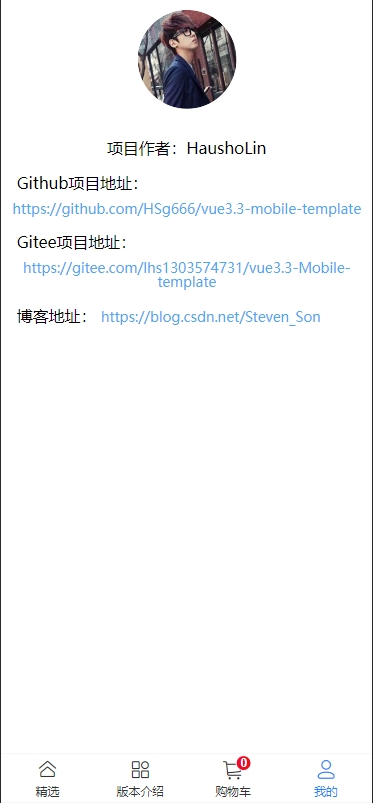
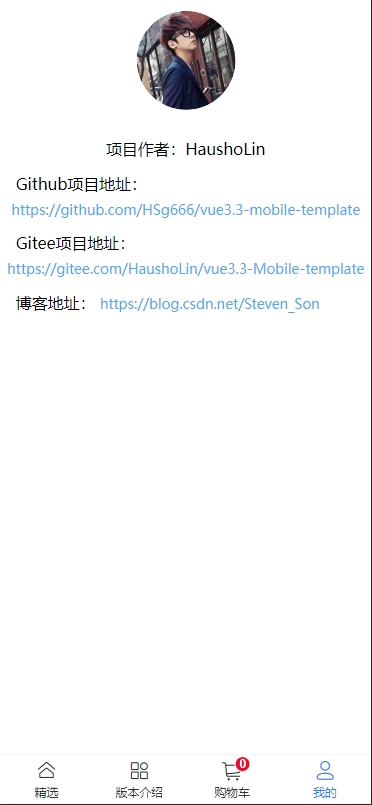
docs:完善文档

diff --git a/src/views/mycenter/index.vue b/src/views/mycenter/index.vue
@@ -19,7 +19,7 @@ onMounted(() => {})
 
 		<div class="project">Gitee项目地址：</div>
 		<div class="item url">
-			<a href="https://gitee.com/lhs1303574731/vue3.3-Mobile-template">https://gitee.com/lhs1303574731/vue3.3-Mobile-template</a>
+			<a href="https://gitee.com/HaushoLin/vue3.3-Mobile-template">https://gitee.com/HaushoLin/vue3.3-Mobile-template</a>
 		</div>
 		<div class="project">
 			博客地址：

diff --git a/README.md b/README.md
@@ -11,11 +11,12 @@
 代码管理工具推荐用：sourceTree
 
 ### 项目预览
-![](https://github.com/HSg666/learn-vite/blob/main/src/assets/images/%E9%A6%96%E9%A1%B5.png)
+![](https://img-blog.csdnimg.cn/direct/5d6fdf21951c40efa2ddd1b5abe89b1d.png)
 
-![](https://github.com/HSg666/learn-vite/blob/main/src/assets/images/%E7%89%88%E6%9C%AC%E4%BB%8B%E7%BB%8D.png)
 
-![](https://github.com/HSg666/learn-vite/blob/main/src/assets/images/%E4%B8%AA%E4%BA%BA%E4%B8%AD%E5%BF%83.png)
+![](https://img-blog.csdnimg.cn/direct/58786e2f1f1c4ff3b57adfa64ece87d1.png)
+
+![](https://img-blog.csdnimg.cn/direct/2462980ba4fa44c1ac591aede2895971.png)
 
 ### 项目结构
 
